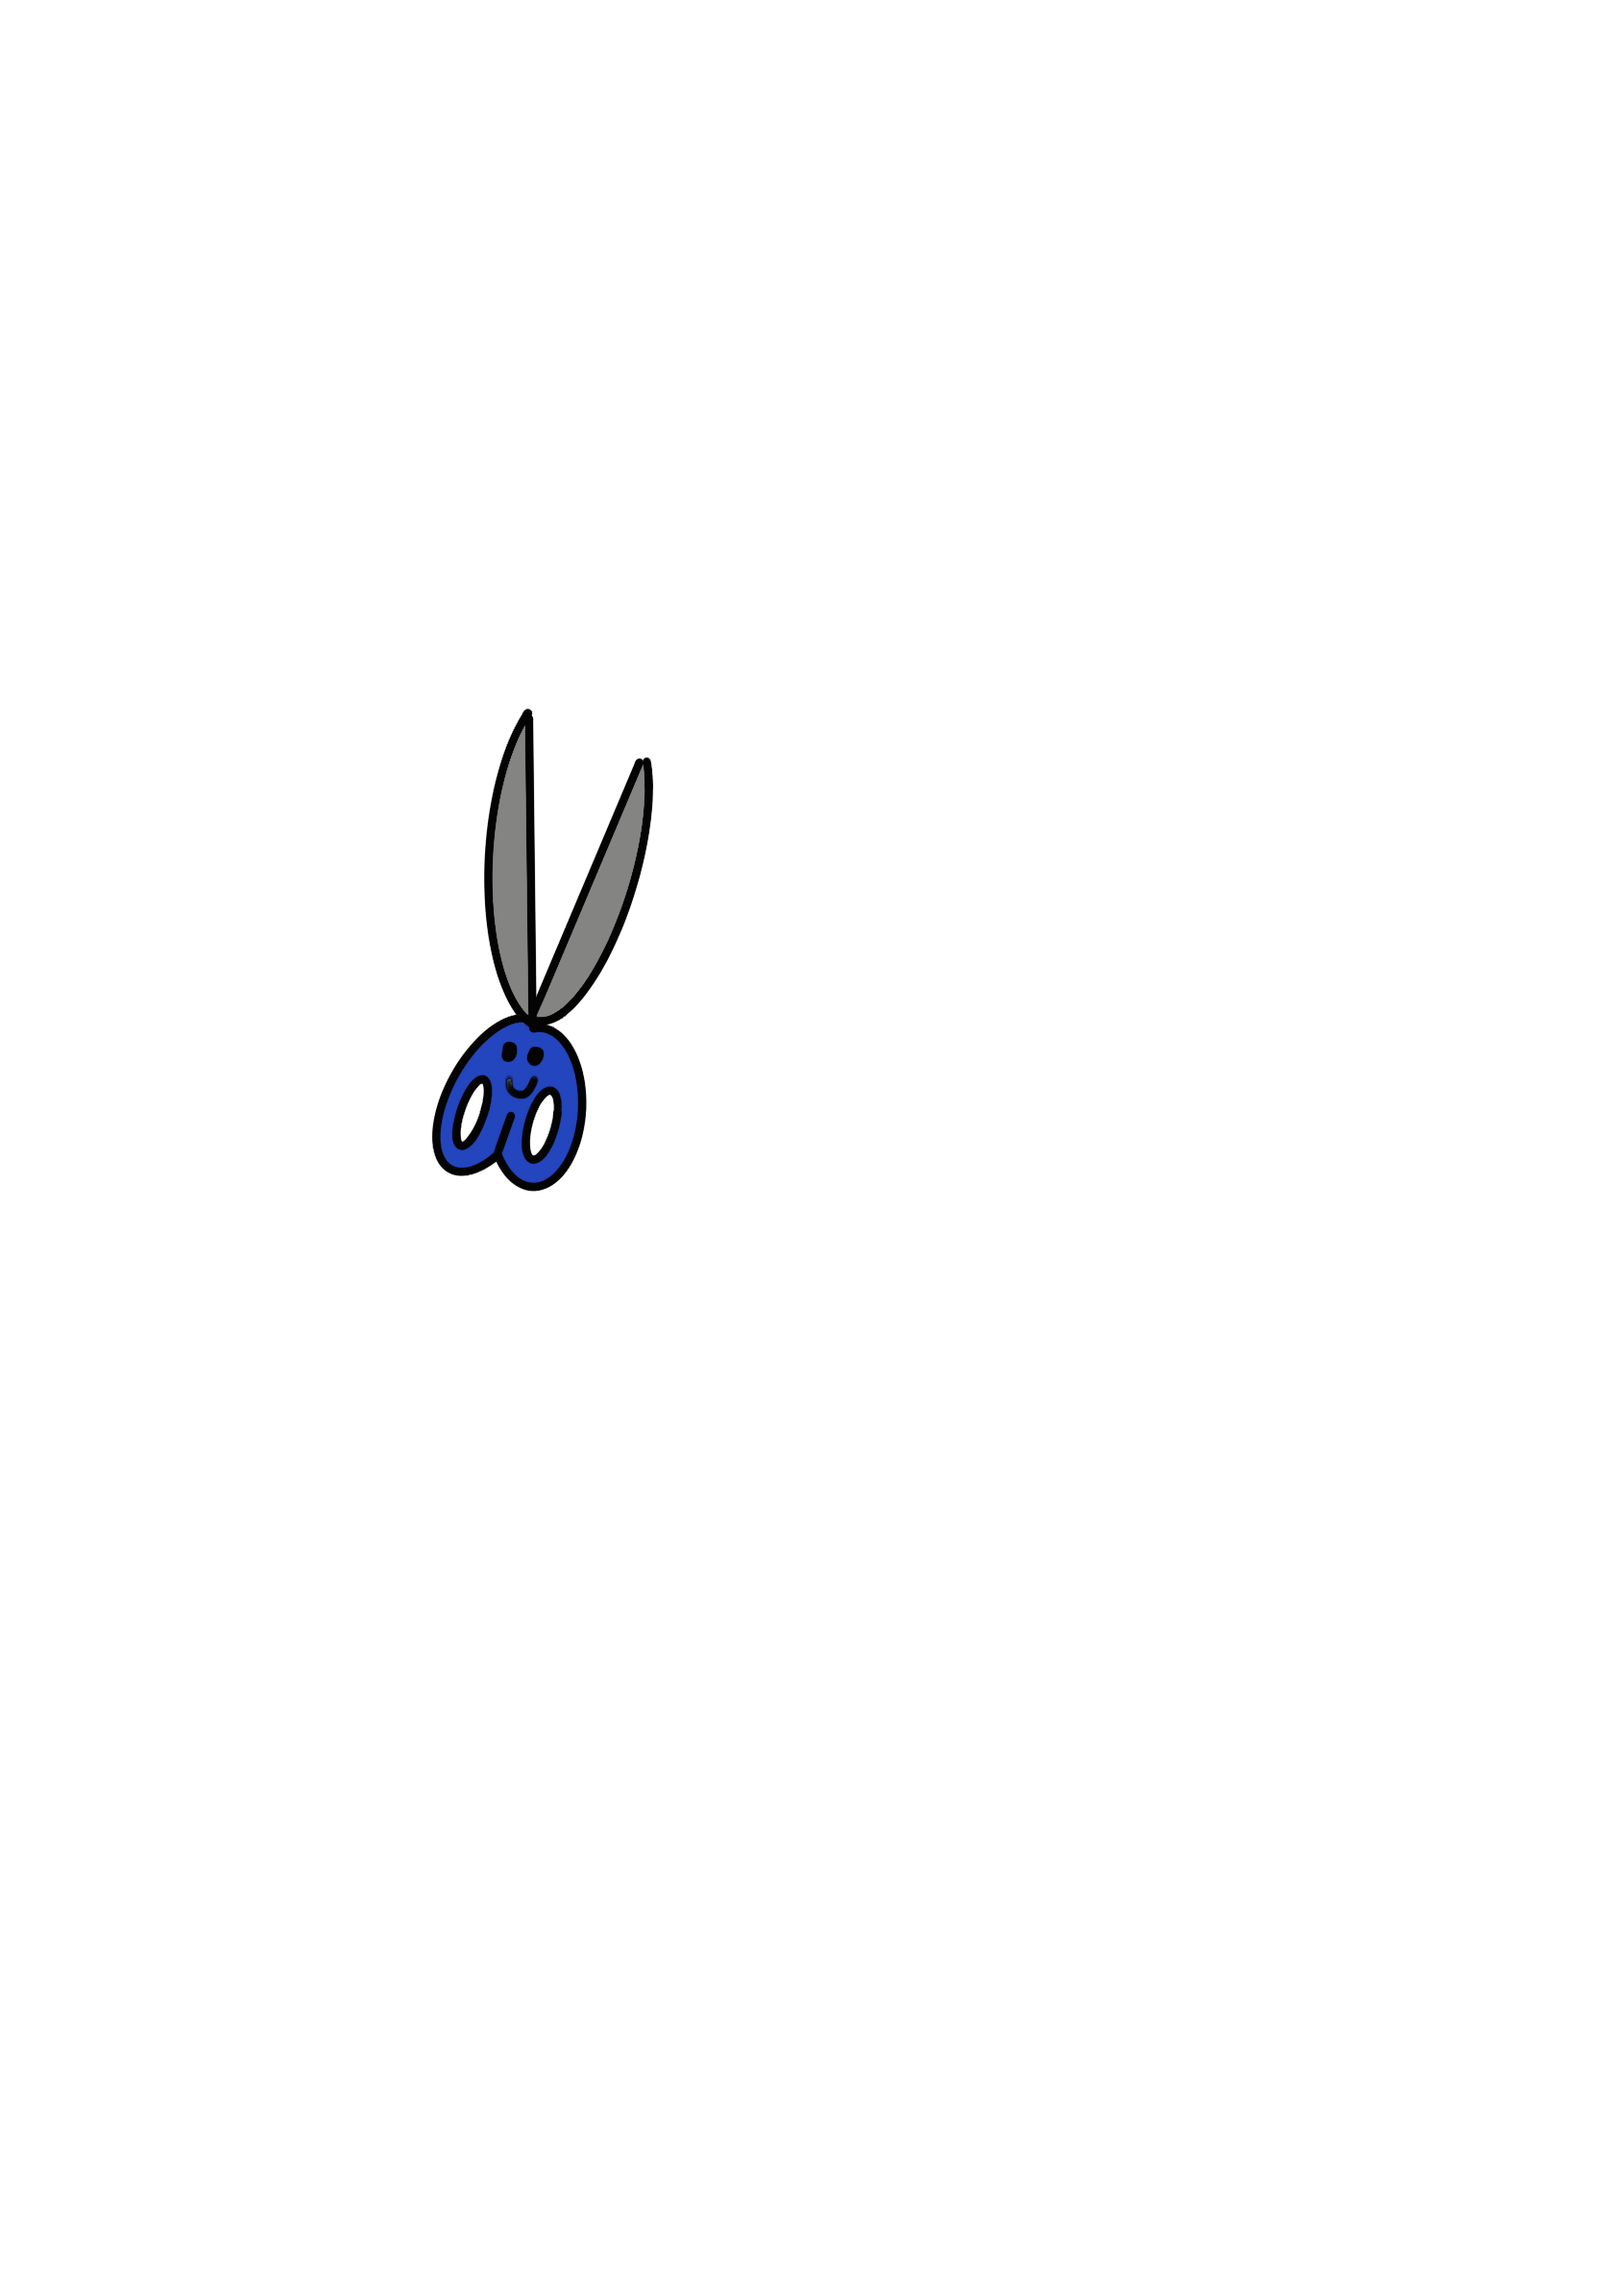
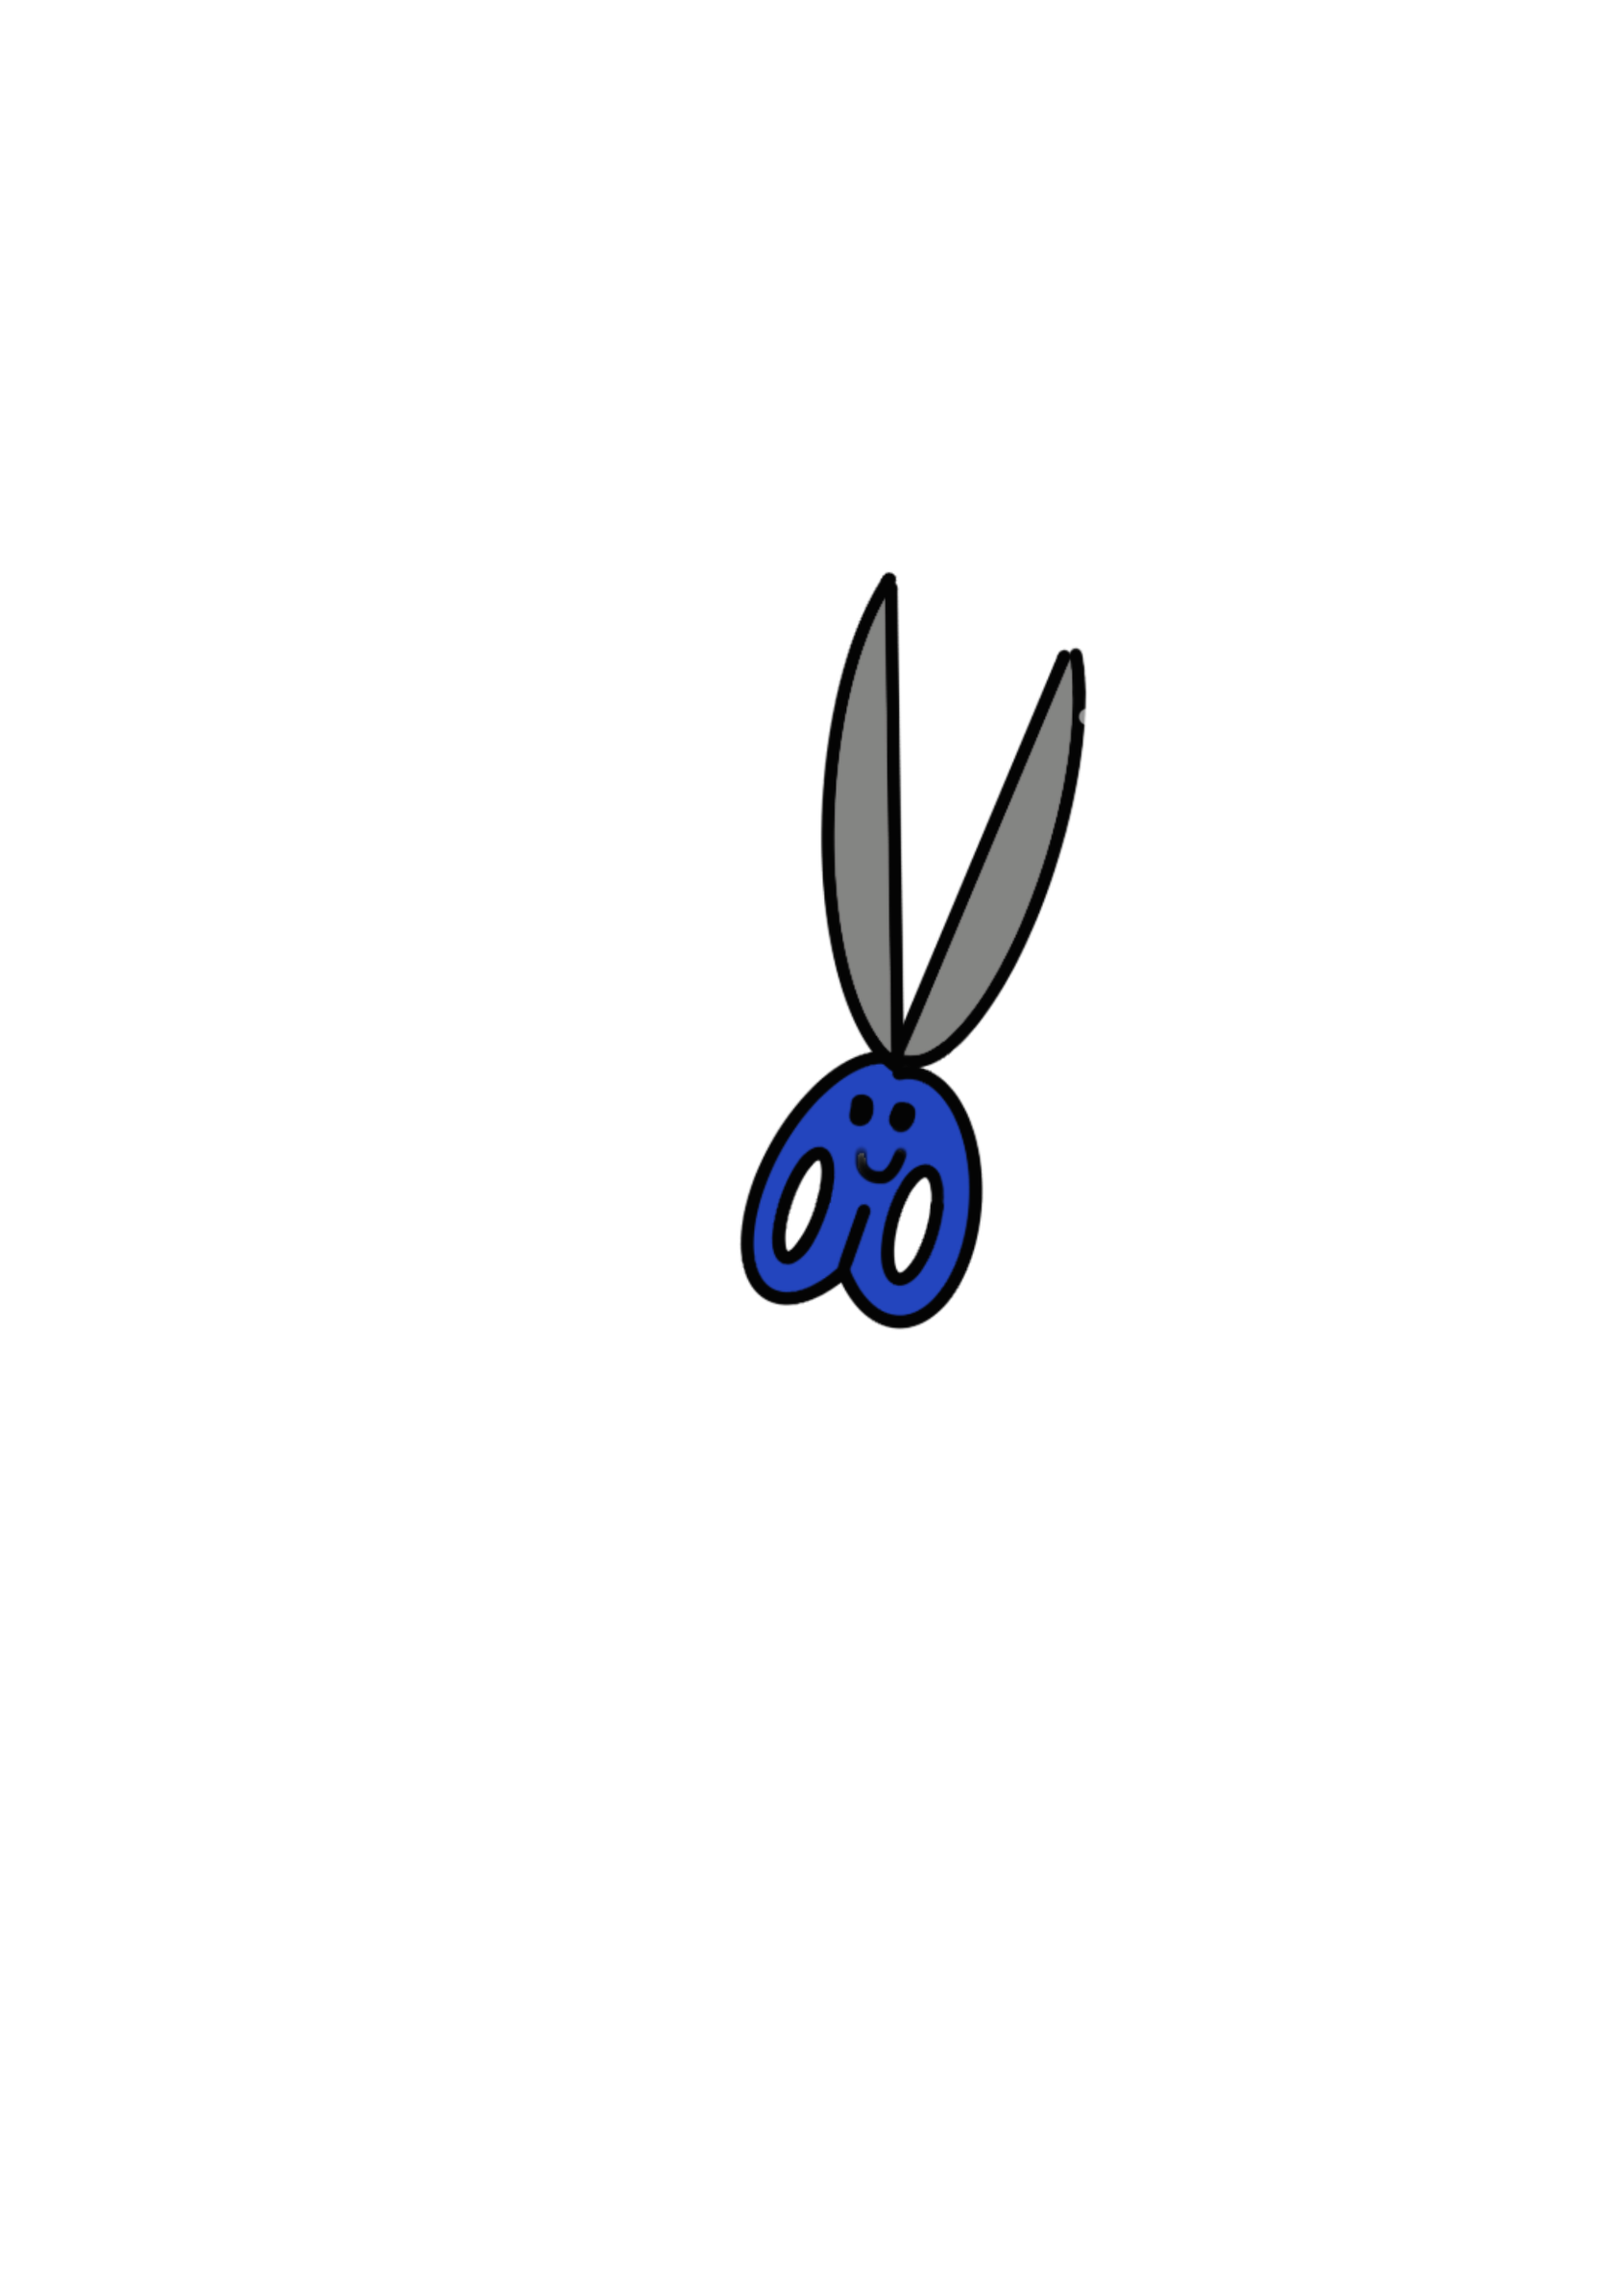
Fixed the bugs and made the scissors img bigger

Changed region(s): [[0.4365, 0.2479, 0.6859, 0.5888], [0.2494, 0.3099, 0.4053, 0.5268]]

diff --git a/rps.html b/rps.html
@@ -25,7 +25,7 @@
         </section>
 
         <div class="result">
-            <p>You Win!</p>
+            <p>Who Will Win?</p>
         </div>
 
         <div class="choices">
